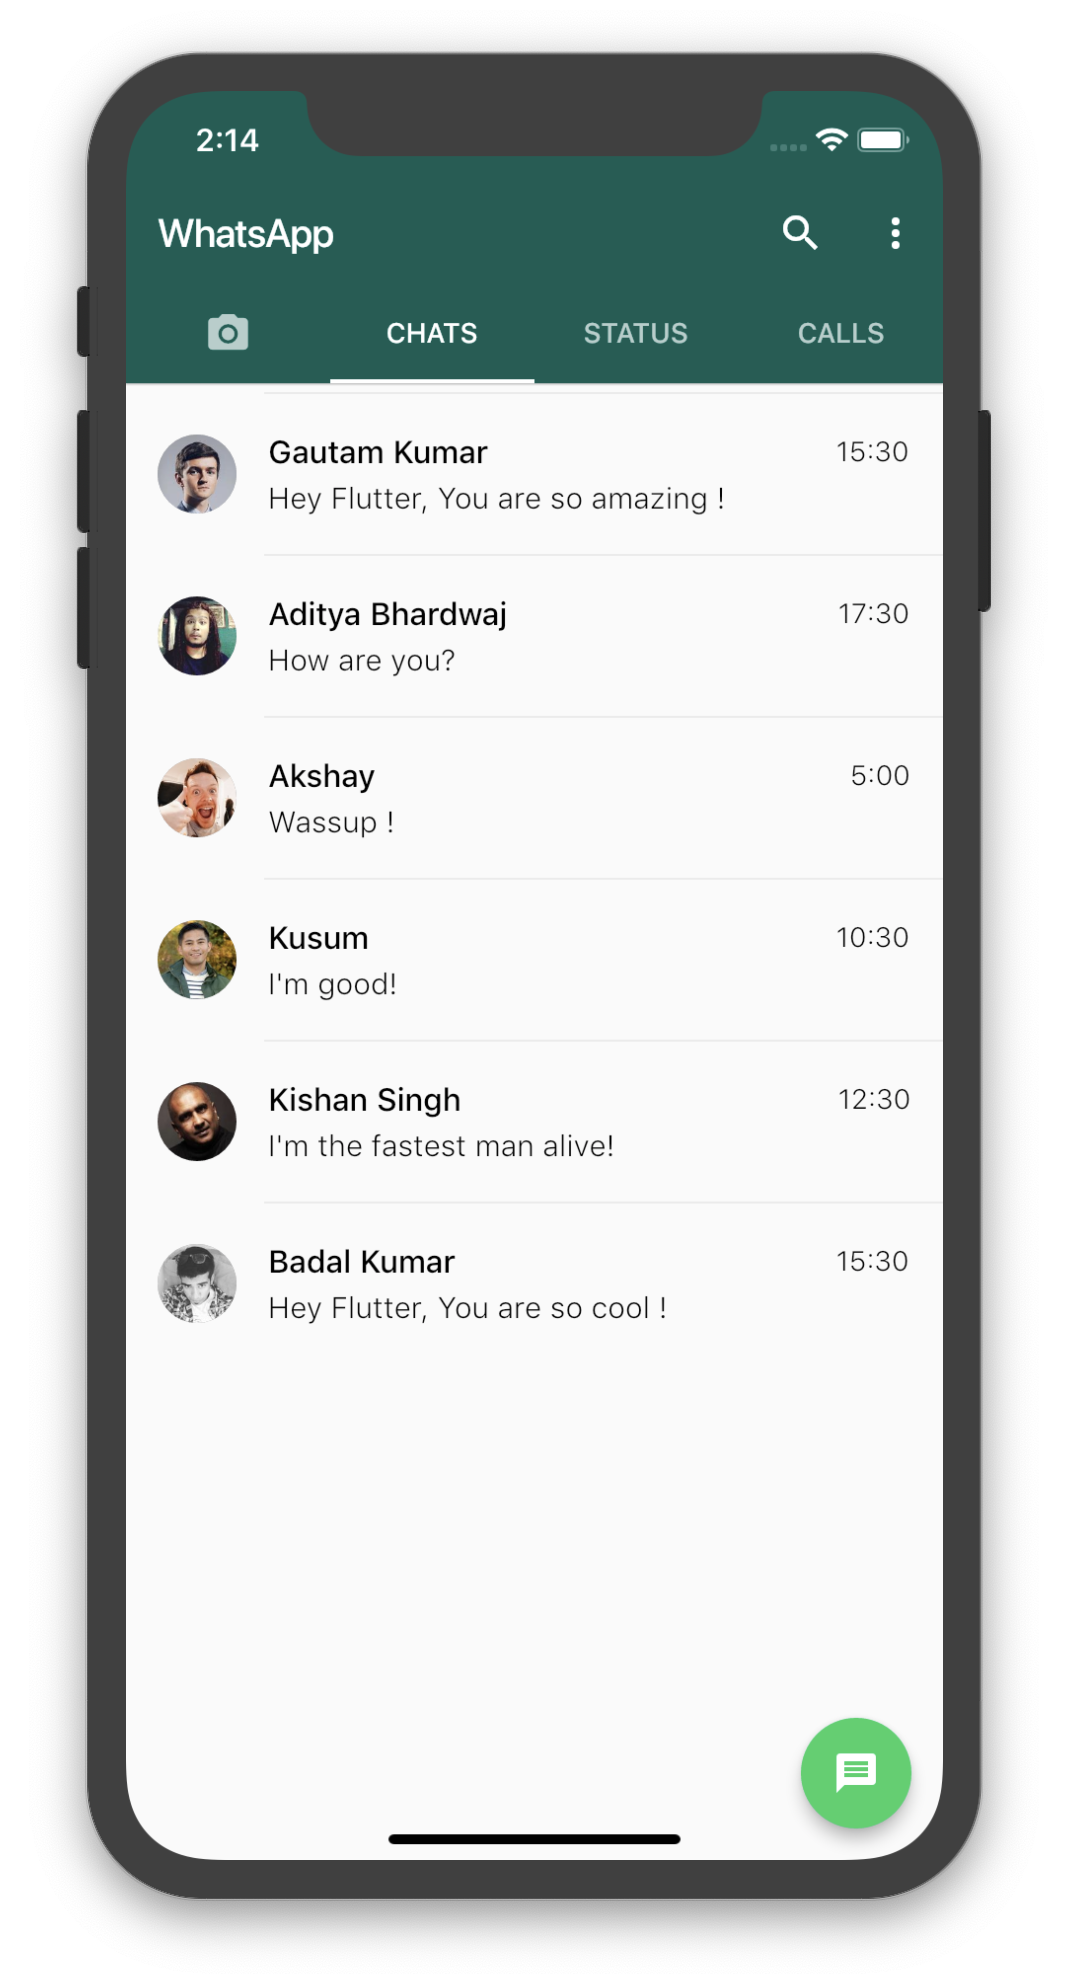
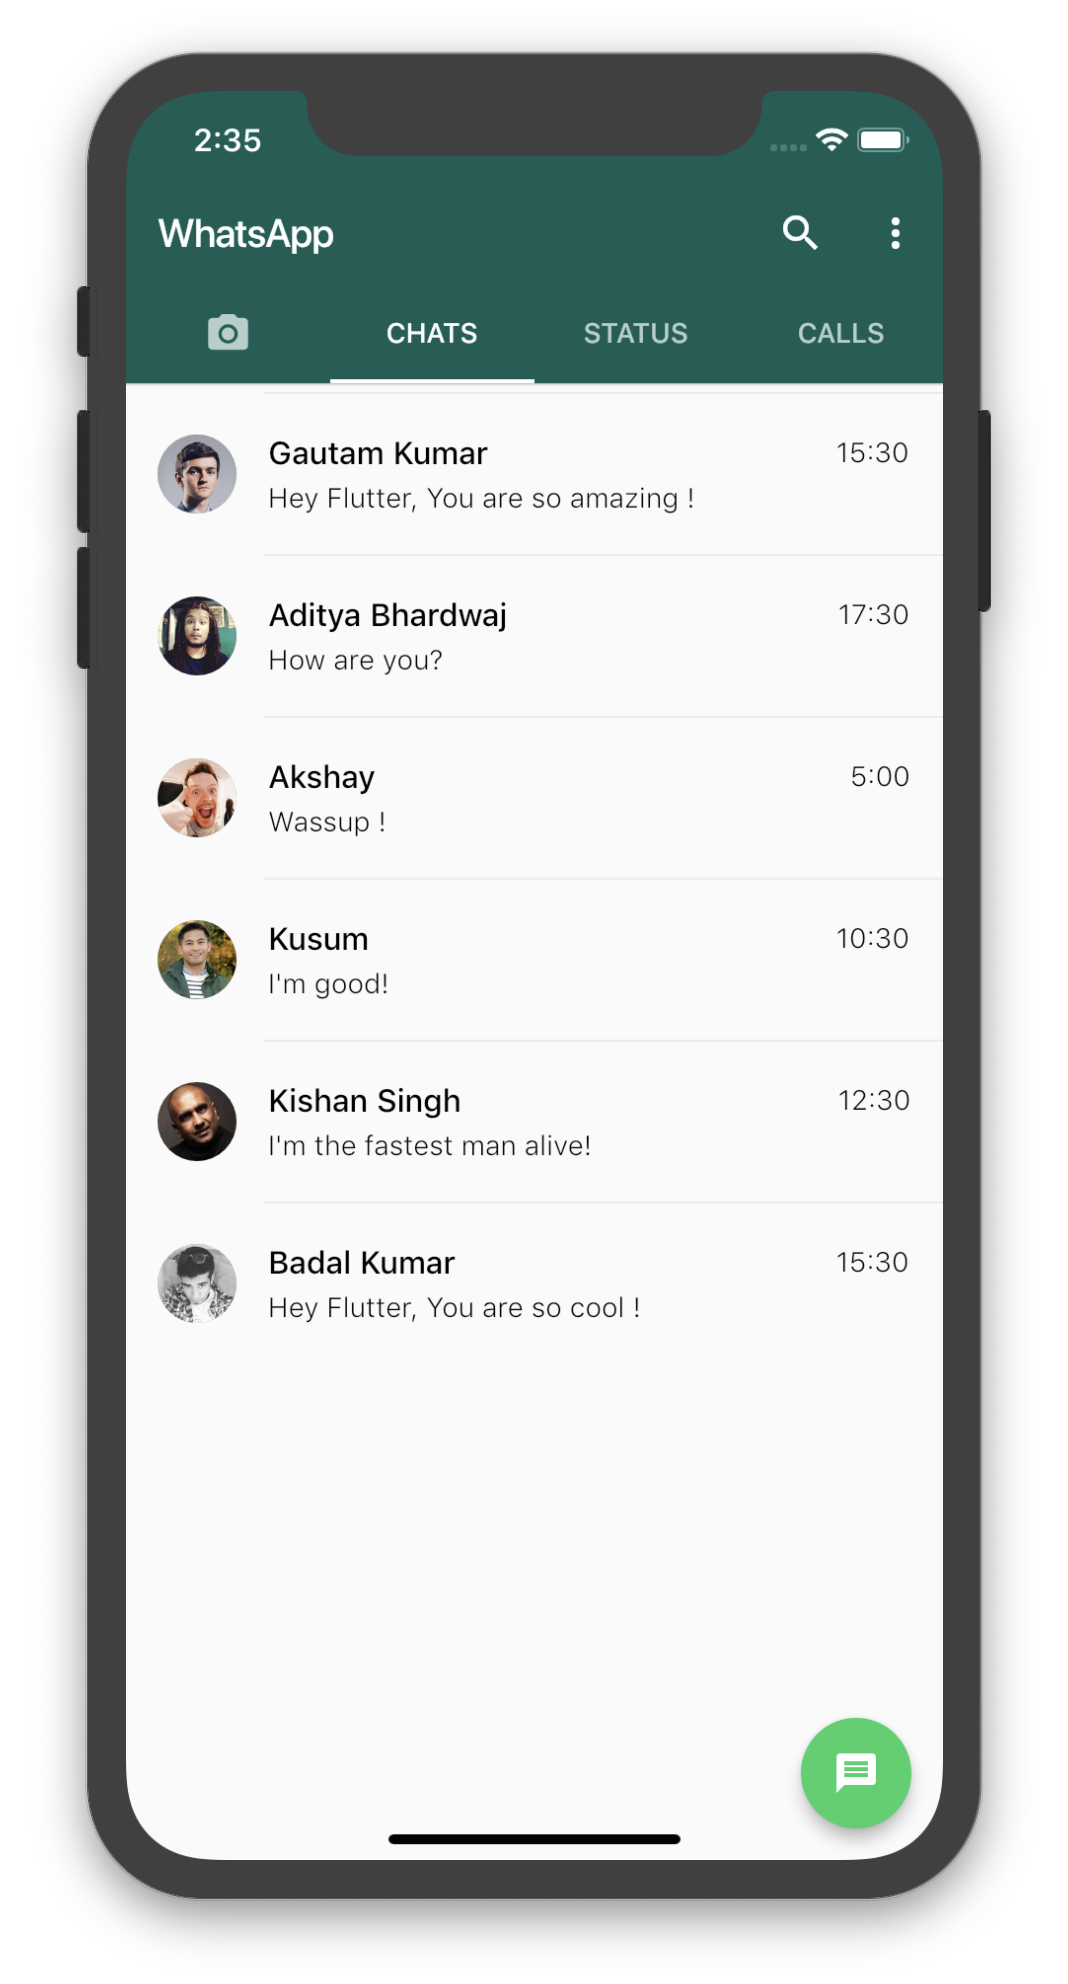
android screenshot added

diff --git a/lib/widget/call_item.dart b/lib/widget/call_item.dart
@@ -44,8 +44,8 @@ class CallsItemWidget extends StatelessWidget {
                   child: Text(dummyCallData[index].callTime,
                       style: TextStyle(
                           color: Colors.black,
-                          fontWeight: FontWeight.w500,
-                          fontSize: 15.0)),
+                          fontWeight: FontWeight.w300,
+                          fontSize: 14.0)),
                 )
               ],
             ),

diff --git a/lib/widget/chat_item.dart b/lib/widget/chat_item.dart
@@ -48,7 +48,7 @@ class ChatItemWidget extends StatelessWidget {
                 style: TextStyle(
                     color: Colors.black,
                     fontWeight: FontWeight.w300,
-                    fontSize: 15.0),
+                    fontSize: 14.0),
               ),
             ),
           )

diff --git a/lib/widget/status_item.dart b/lib/widget/status_item.dart
@@ -35,7 +35,7 @@ class StatusItemWidget extends StatelessWidget {
             style: TextStyle(
                 color: Colors.black,
                 fontWeight: FontWeight.w300,
-                fontSize: 15.0),
+                fontSize: 14.0),
           ),
         )
       ],
